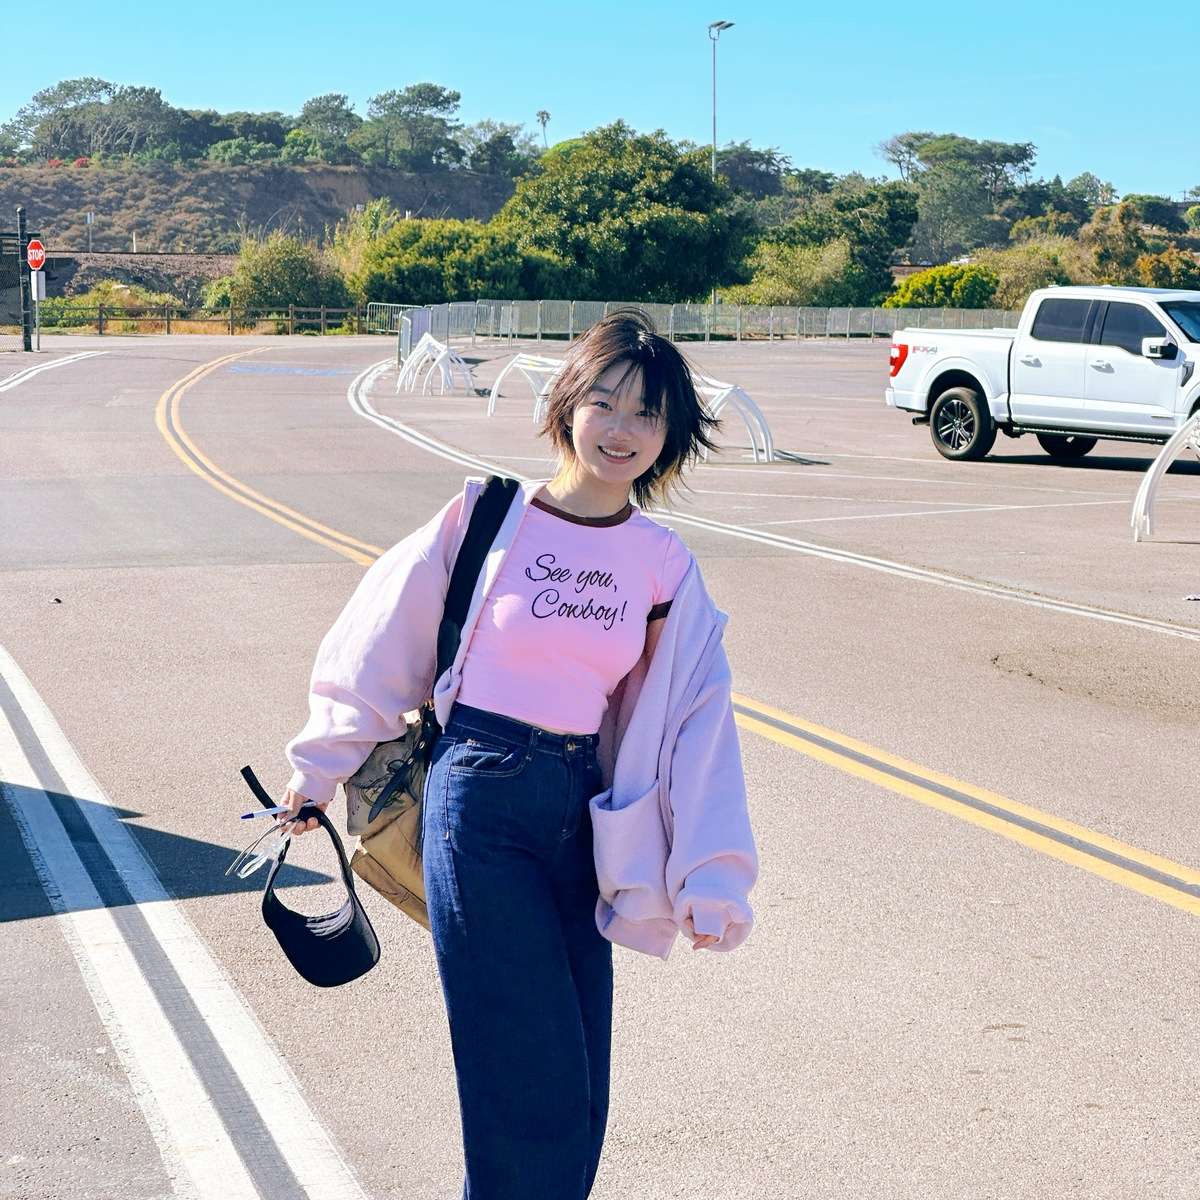
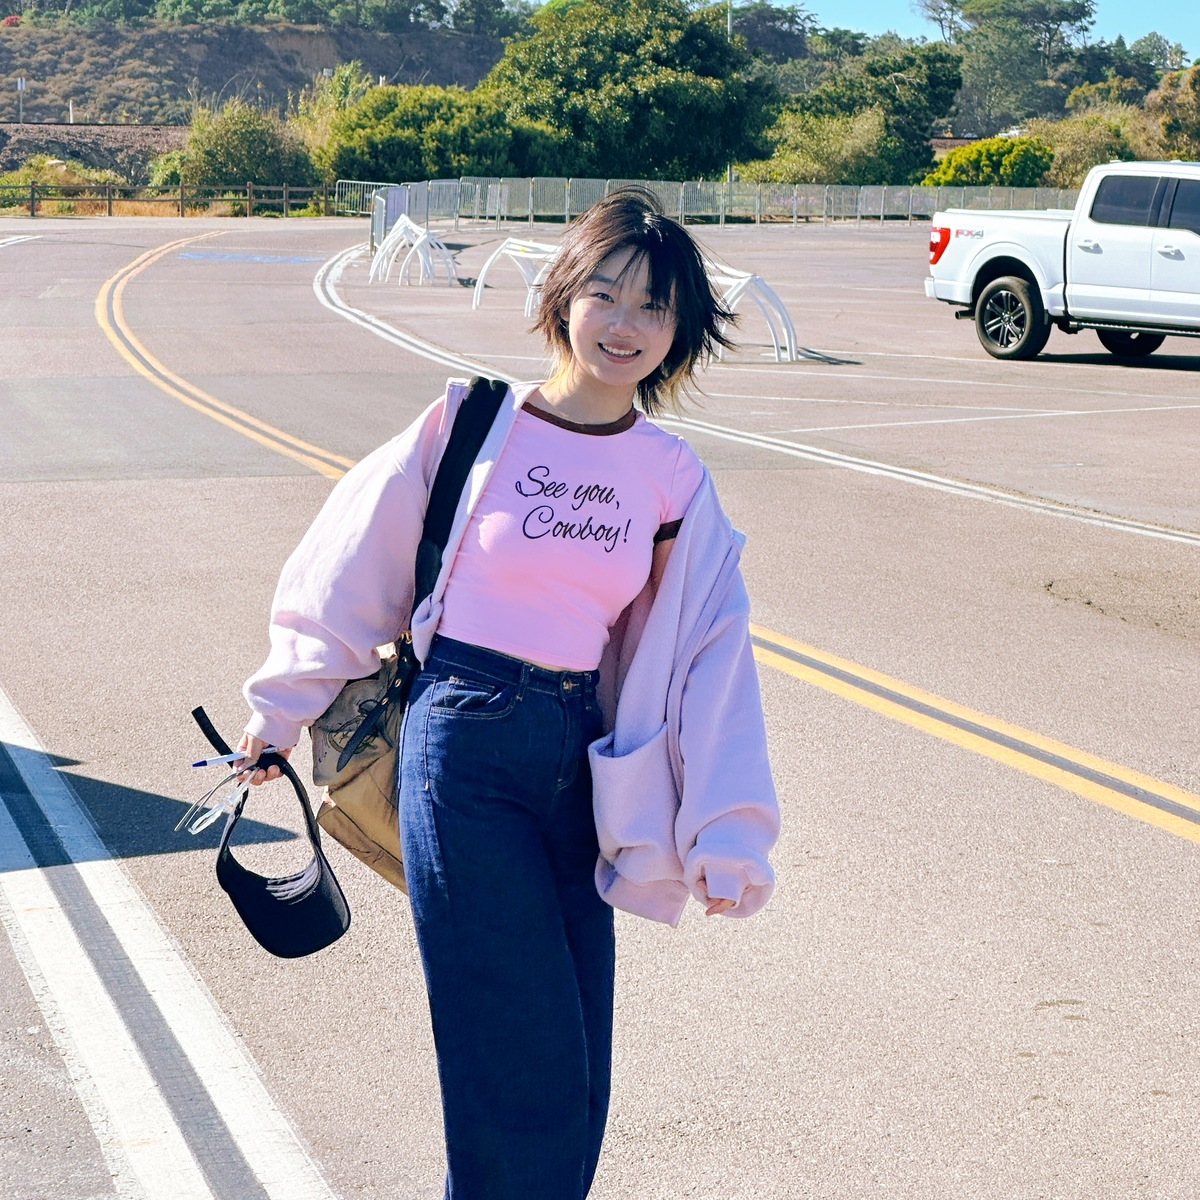
update

diff --git a/_sass/_modern.scss b/_sass/_modern.scss
@@ -489,23 +489,6 @@
     }
   }
 
-  .research-badge {
-    display: inline-block;
-    padding: 1px 8px;
-    background: var(--color-primary-bg);
-    border: 1px solid rgba(197, 189, 176, 0.5);
-    border-radius: 3px 8px 3px 8px;
-    font-size: 0.84em;
-    font-weight: 600;
-    color: #b8860b;
-    margin-left: 2px;
-
-    i {
-      margin-right: 3px;
-      font-size: 0.85em;
-    }
-  }
-
   @media (max-width: 768px) {
     flex-direction: column;
 
@@ -515,6 +498,29 @@
       width: 100%;
       max-width: 320px;
     }
+  }
+}
+
+/* Best Paper / paper highlight badge (research + activity + timeline) */
+.research-badge {
+  display: inline-flex;
+  align-items: center;
+  box-sizing: border-box;
+  padding: 0.0625rem 0.5rem;
+  background: var(--color-primary-bg);
+  border: 1px solid rgba(197, 189, 176, 0.5);
+  border-radius: 3px 8px 3px 8px;
+  /* rem: same absolute size as inside .page__content p (1em), not parent-dependent */
+  font-size: 0.84rem;
+  font-weight: 600;
+  color: #b8860b;
+  margin-left: 0.125rem;
+  line-height: 1.35;
+  vertical-align: middle;
+
+  i {
+    margin-right: 0.1875rem;
+    font-size: 0.9em;
   }
 }
 
@@ -573,6 +579,10 @@
     gap: 0.7rem;
     margin-bottom: 0.5rem;
     flex-wrap: wrap;
+
+    .research-badge {
+      margin-left: 0;
+    }
   }
 
   .ma-date {
@@ -653,6 +663,12 @@
   font-size: 0.95em;
   line-height: 1.6;
   margin-bottom: 1rem;
+
+  &__note {
+    font-size: 0.82em;
+    font-style: italic;
+    color: var(--color-text-secondary);
+  }
 }
 
 .service-list {

diff --git a/_pages/about.md b/_pages/about.md
@@ -20,7 +20,7 @@ redirect_from:
   <div class="modern-tl-item">
     <div class="modern-tl-date"><i class="fas fa-trophy tl-icon tl-icon--award"></i> 2026-03</div>
     <div class="modern-tl-body">
-      Congrats! Xuan's work <a href="https://dl.acm.org/doi/10.1145/3772318.3790804">"CoBRA: Programming Cognitive Bias in Social Agents using Classic Social Science Experiments"</a> received <strong>Best Paper Award</strong> at <u>CHI 2026</u>! Visit <a href="https://cobra.clawder.ai/">Project Page</a>
+      Congrats! Xuan's work <a href="https://dl.acm.org/doi/10.1145/3772318.3790804">"CoBRA: Programming Cognitive Bias in Social Agents using Classic Social Science Experiments"</a> received <span class="research-badge"><i class="fas fa-trophy"></i> Best Paper Award</span> at <u>CHI 2026</u>! Visit <a href="https://cobra.clawder.ai/">Project Page</a>
     </div>
   </div>
 

diff --git a/_pages/activities.md b/_pages/activities.md
@@ -6,6 +6,18 @@ layout: modern
 
 <div class="modern-activity">
   <div class="ma-header">
+    <span class="ma-date">2026-04-14</span>
+    <span class="research-badge"><i class="fas fa-trophy"></i> Best Paper Award</span>
+    <span class="ma-type">Oral Presentation</span>
+  </div>
+  <div class="ma-body">
+    <strong>Topic:</strong> CoBRA: Programming Cognitive Bias in Social Agents using Classic Social Science Experiments<br>
+    <strong>Venue:</strong> ACM CHI 2026, 10:12 AM, P1-Room 122, AI Systems for Human Goals, Barcelona, Spain [<a href="https://programs.sigchi.org/chi/2026/program/content/223158">Detail</a>] [<a href="https://xuanl17.github.io/cobra-presentation/">Slides</a>]
+  </div>
+</div>
+
+<div class="modern-activity">
+  <div class="ma-header">
     <span class="ma-date">2026-03-14</span>
     <span class="ma-type">Invited Talk</span>
   </div>

diff --git a/_pages/service.md b/_pages/service.md
@@ -6,7 +6,7 @@ layout: modern
 
 <h2 class="section-title">Conference Reviewer & Program Committee</h2>
 
-<p class="service-text">CHI 2026 | ICML 2026 | CVPR 2026, 2025, 2024 | ECCV 2026, 2025 | ICLR 2026, 2025 | AAAI 2026, 2025</p>
+<p class="service-text">CHI 2026 <span class="service-text__note">(Special Recognition for Outstanding Reviews)</span> | ICML 2026 | CVPR 2026, 2025, 2024 | ECCV 2026, 2025 | ICLR 2026, 2025 | AAAI 2026, 2025</p>
 
 <h2 class="section-title">Journal Reviewer & Commentary</h2>
 
